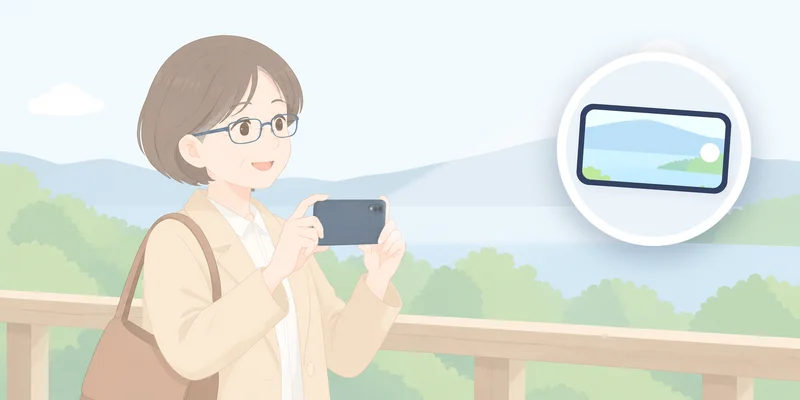
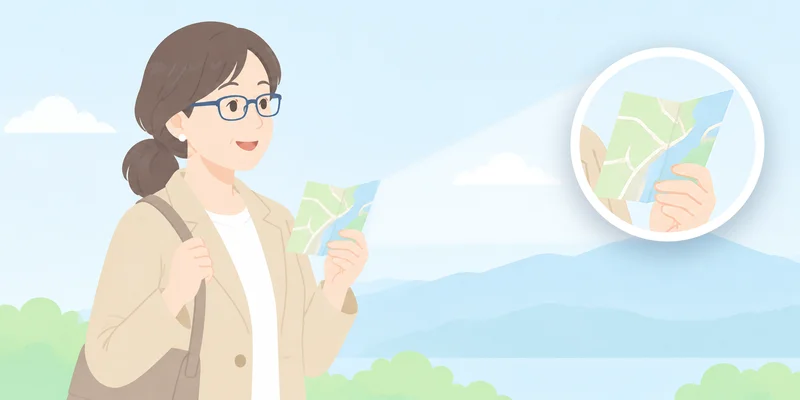
遠近両用のイラストを差し替え(旅行先でマップを片手に遠くの山を見る40代後半の女性・一つ結び・右に手元のマップの拡大の丸)

diff --git a/wp-deploy/page-lp-soudan.php b/wp-deploy/page-lp-soudan.php
@@ -1652,7 +1652,7 @@ $lp_assets = get_stylesheet_directory_uri() . '/lp/assets/soudan/img';
       <div class="lens-modal-scroll">
       <div class="lens-detail" data-lens="enkin" hidden>
         <div class="lens-detail-head">
-          <img class="lens-detail-illust" src="<?php echo $lp_assets; ?>/soudan_lens-enkin_800_400.webp?v=9e3486a1" width="800" height="400" alt="">
+          <img class="lens-detail-illust" src="<?php echo $lp_assets; ?>/soudan_lens-enkin_800_400.webp?v=92e6a8df" width="800" height="400" alt="">
           <p class="lens-detail-catch">遠くも手元も、これ1本で</p>
           <h3 class="lens-detail-name">遠近両用レンズ</h3>
         </div>
